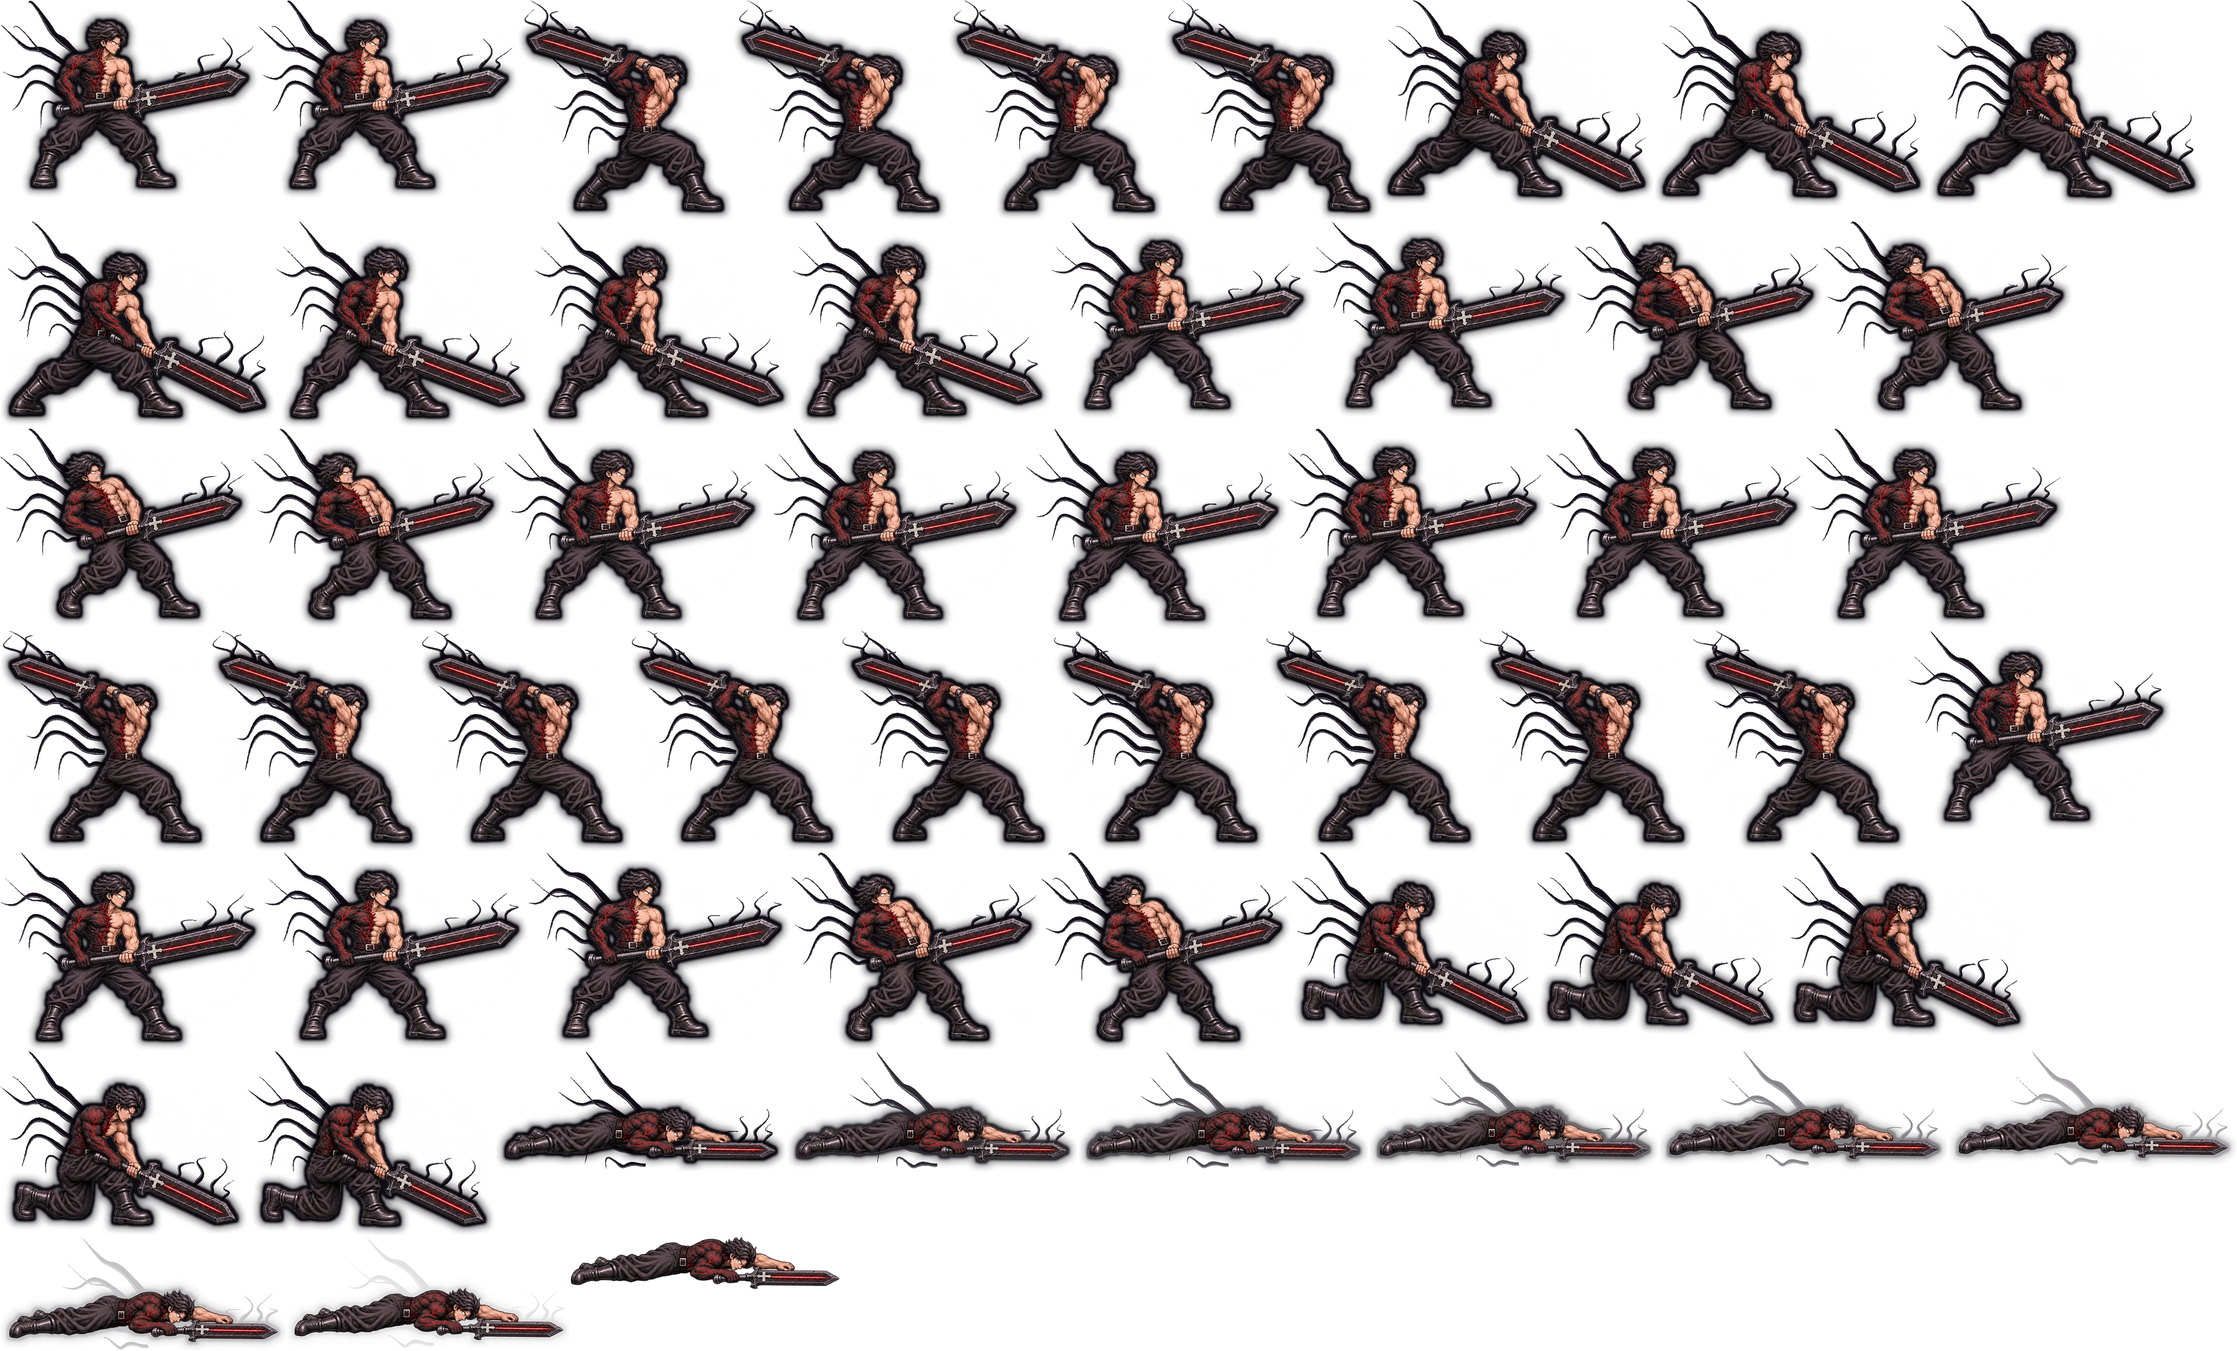
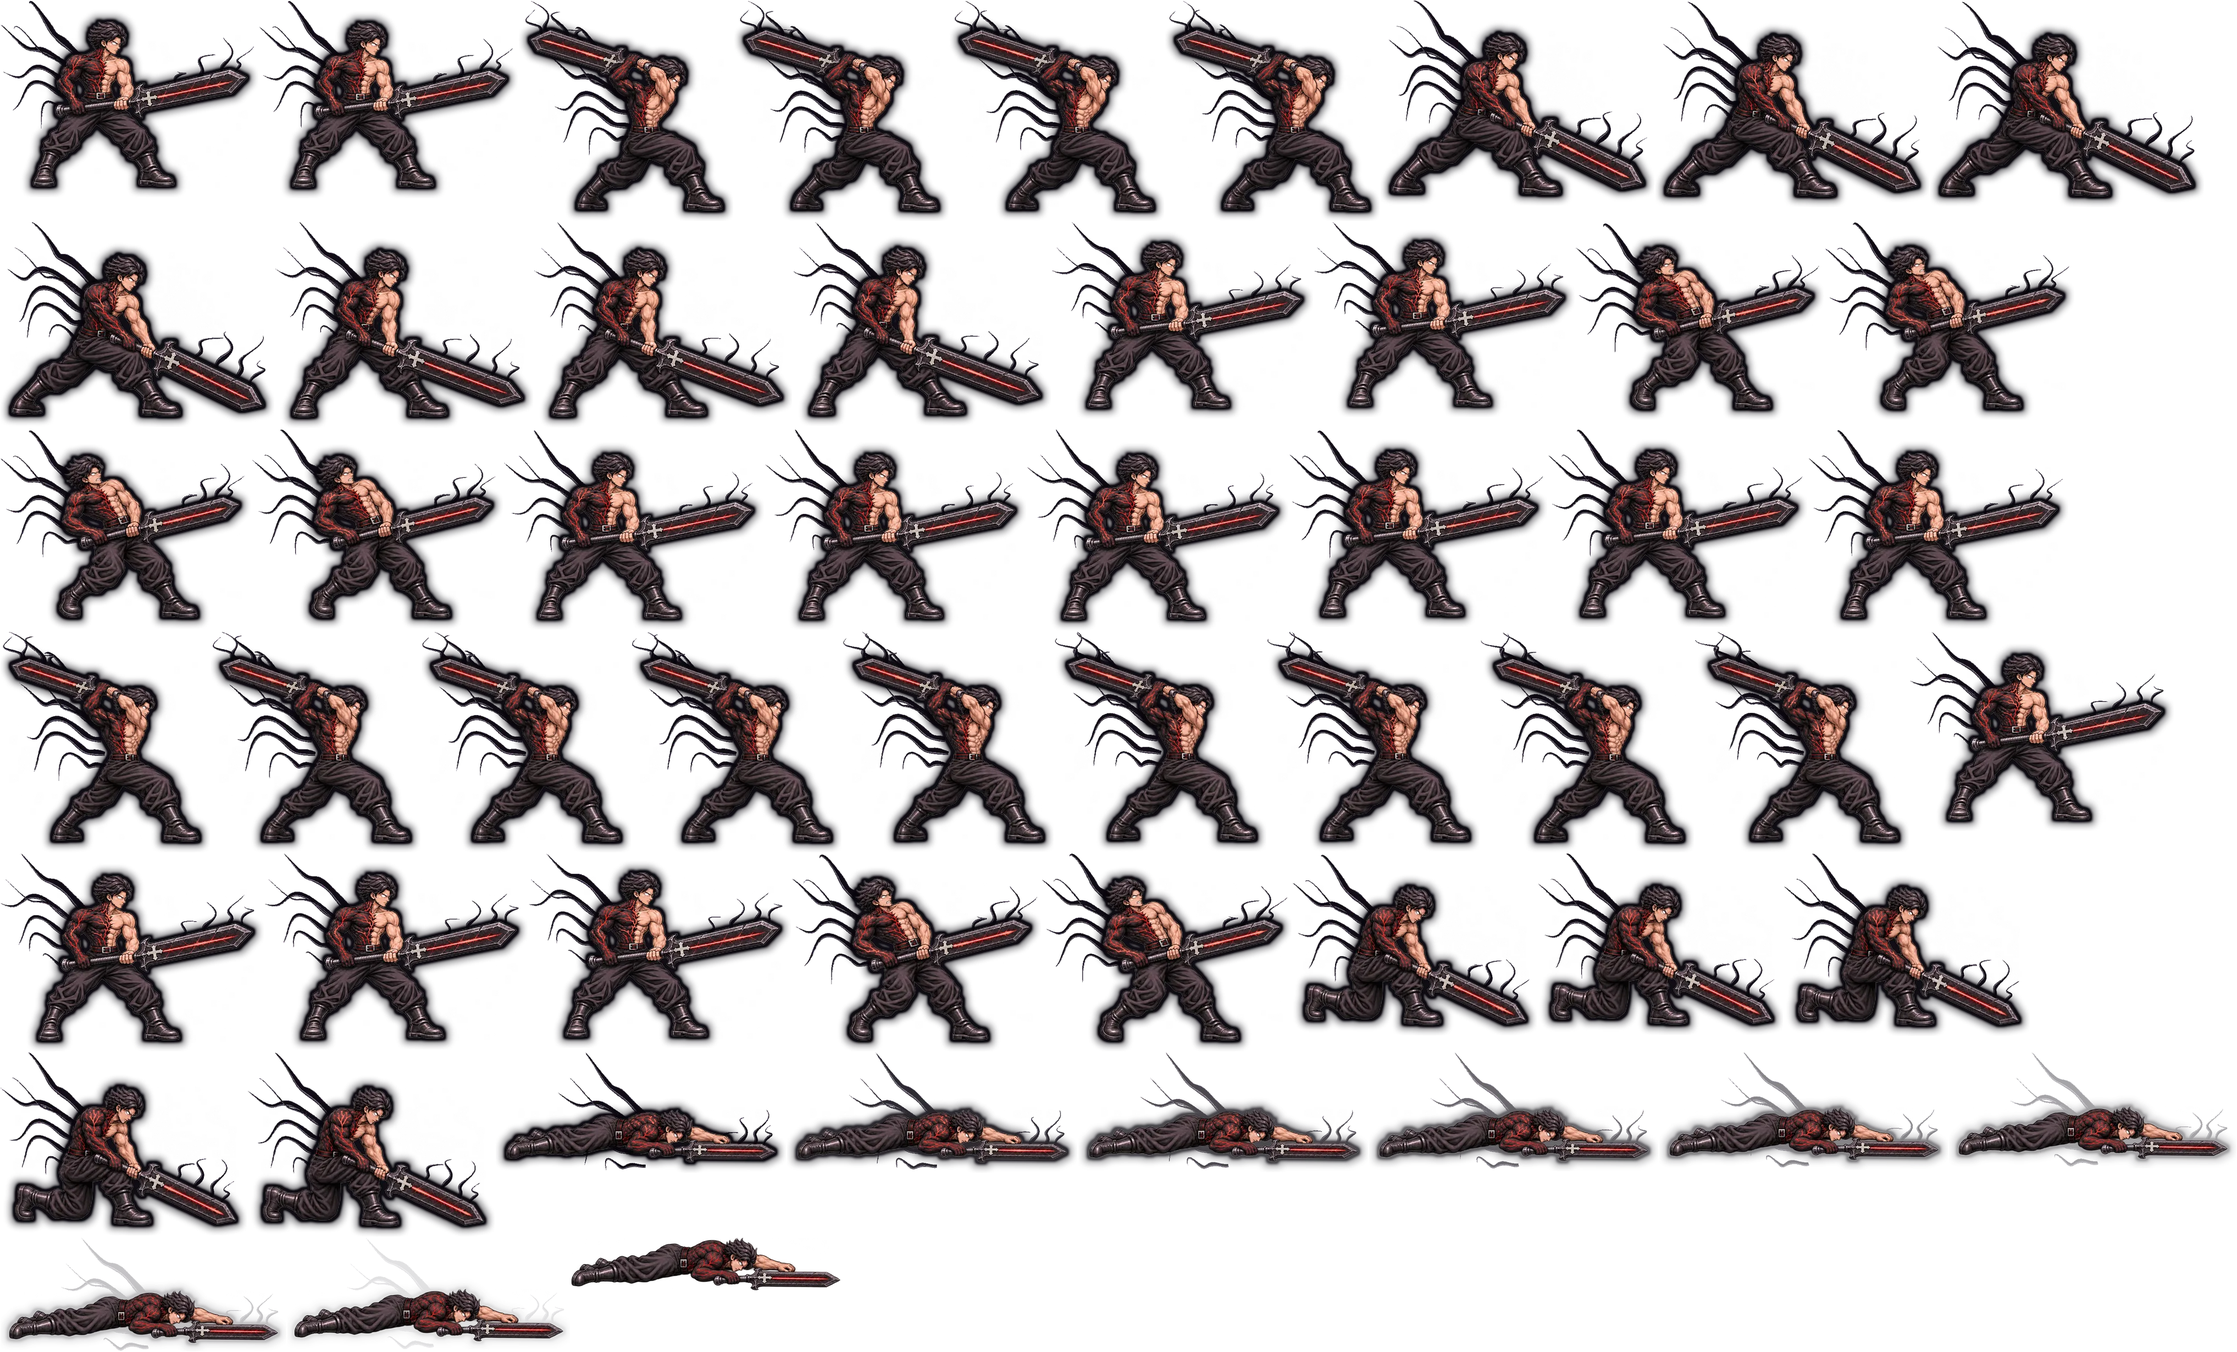
0.262.0: the Demon Knight at his full size, whole in his box, and still
His model is fitted by his body, not by the great sword held out to the
side (a manifest's fitWidth), so he stands as tall as any Riftwalker and
9% more in battle. The Store's and the Collection's look boxes stand the
whole resting figure in their middle (HeroModel contain). His packer
scales each frame whole before cutting it, which ends a one-pixel jitter
while he stands; both sets repacked with the new red energy. No rules
change (decision 772).

diff --git a/apps/web/src/art/HeroModel.tsx b/apps/web/src/art/HeroModel.tsx
@@ -34,6 +34,9 @@ export function HeroModel(props: {
   className?: string;
   /** how much of the box's height the body fills, feet on its bottom edge */
   fill?: number;
+  /** the whole resting figure, weapon and all, stays inside the box and stands in its middle (the Store's and the Collection's boxes);
+   * without it the feet stand in the middle and a wide pose may reach past the sides (DECISIONS #772) */
+  contain?: boolean;
   /** the still picture */
   children: ReactNode;
 }) {
@@ -50,6 +53,7 @@ export function HeroModel(props: {
   );
   const rigId = heroRigFor(props.hero, props.skin);
   const fill = props.fill ?? 0.94;
+  const contain = props.contain === true;
   // (DECISIONS #755) a model is only loaded while it is on screen or near it, and let go when it scrolls well away
   const [near, setNear] = useState(() => typeof IntersectionObserver !== 'function');
   // (no pose-sheet slot free: the picture, until one is; `slot` counts the times one was freed, to try again)
@@ -110,7 +114,16 @@ export function HeroModel(props: {
     const place = (): void => {
       if (!sprite) return;
       const dpr = Math.min(2, window.devicePixelRatio || 1);
-      const height = Math.max(8, size.h * fill);
+      let height = Math.max(8, size.h * fill);
+      let shift = 0;
+      if (contain && sprite.restSpan && size.w > 0) {
+        let span = sprite.restSpan(height);
+        if (span.left + span.right > size.w) {
+          height = Math.max(8, (height * size.w) / (span.left + span.right));
+          span = sprite.restSpan(height);
+        }
+        shift = (span.left - span.right) / 2;
+      }
       const changed = sprite.resize(height, dpr);
       const c = sprite.canvas;
       const w = c.width * sprite.stageScale;
@@ -118,7 +131,7 @@ export function HeroModel(props: {
       const a = sprite.anchor;
       c.style.width = `${w}px`;
       c.style.height = `${h}px`;
-      c.style.left = `${size.w / 2 - a.x * w}px`;
+      c.style.left = `${size.w / 2 - a.x * w + shift}px`;
       c.style.top = `${size.h - a.y * h}px`;
       if (changed) sprite.render();
     };
@@ -223,7 +236,7 @@ export function HeroModel(props: {
       stop();
       release();
     };
-  }, [rigId, fill, near, slot]);
+  }, [rigId, fill, contain, near, slot]);
 
   return (
     <span

diff --git a/apps/web/src/fight/heroSheet.test.ts b/apps/web/src/fight/heroSheet.test.ts
@@ -33,3 +33,39 @@ describe('a Riftwalker’s strike leaves out its slow wind-up (DECISIONS #770)',
     }
   });
 });
+
+describe('a look whose resting pose holds a weapon far out is fitted by its body (DECISIONS #772)', () => {
+  const sets = ['heroes-sheets', 'heroes-sheets-lite'];
+  const load = (set: string) =>
+    JSON.parse(
+      readFileSync(
+        join(__dirname, '../../public/art', set, 'skins/knight-demon-knight/sprites.json'),
+        'utf8',
+      ),
+    ) as {
+      displayScale: number;
+      fitWidth?: number;
+      clips: Record<string, { frames: number[][] }>;
+    };
+  it('the Demon Knight\u2019s body fills the same share of the height as any Riftwalker\u2019s, in both sets', () => {
+    for (const set of sets) {
+      const man = load(set);
+      const rest = man.clips['idle']!.frames[0]!;
+      expect(man.fitWidth, set).toBeGreaterThan(0);
+      // (narrower than the whole picture, sword and all)
+      expect(man.fitWidth!, set).toBeLessThan(rest[3]!);
+      // (the fit: the body 0.78 of the height unless its width, at most 0.85 of the height, asks for more room)
+      const bodyH = rest[4]! / man.displayScale;
+      const bodyW = man.fitWidth! / man.displayScale;
+      expect(bodyW / 0.85, set).toBeLessThanOrEqual(bodyH / 0.78);
+    }
+  });
+  it('his feet stand on the same line in every resting frame (the frames are cut from one scaled canvas)', () => {
+    for (const set of sets) {
+      const man = load(set);
+      // (the bottom edge of every idle frame, measured from the feet: the boots never rise or sink)
+      const bottoms = new Set(man.clips['idle']!.frames.map((f) => f[6]! + f[4]!));
+      expect([...bottoms], set).toHaveLength(1);
+    }
+  });
+});

diff --git a/apps/web/src/fight/heroSheet.ts b/apps/web/src/fight/heroSheet.ts
@@ -31,6 +31,9 @@ interface SheetClip {
 interface Manifest {
   name: string;
   displayScale?: number;
+  /** the standing body's own width, in sheet px, when the resting pose holds something far out to the side (the Demon Knight's great
+   * sword): the figure is fitted and spaced by this, not by the whole picture, or the weapon made the body small (DECISIONS #772) */
+  fitWidth?: number;
   pages: string[];
   /** the first this many pages hold every idle frame (pack_for_game --idle-first); without it every page is needed at once */
   idlePages?: number;
@@ -240,7 +243,7 @@ export class SheetHeroSprite {
     const rest = a.man.clips['idle']!.frames[0]!;
     const scale = a.man.displayScale ?? 1;
     this.bodyH = rest[4] / scale;
-    this.bodyW = rest[3] / scale;
+    this.bodyW = (a.man.fitWidth ?? rest[3]) / scale;
     this.texture = Texture.from(this.canvas);
     this.texture.dynamic = true;
   }
@@ -296,6 +299,16 @@ export class SheetHeroSprite {
 
   widthFor(height: number): number {
     return (height * this.bodyW) / this.fitH;
+  }
+
+  /** How far the resting pose reaches to the left and the right of the feet, in the same units as `height`, weapon and all: for a box
+   * that must hold the whole figure (the Store's and the Collection's). */
+  restSpan(height: number): { left: number; right: number } {
+    const b = this.boxes.get('idle')!;
+    const u = height / (this.fitH * (this.a.man.displayScale ?? 1));
+    const left = -b.x0 * u;
+    const right = (b.x0 + b.w) * u;
+    return this.facing === 'right' ? { left, right } : { left: right, right: left };
   }
 
   resize(height: number, pixelScale: number): boolean {

diff --git a/apps/web/src/fight/FightView.tsx b/apps/web/src/fight/FightView.tsx
@@ -315,13 +315,12 @@ function specsFrom(
       // redraw when it arrives: FIGURE_READY_EVENT)
       const form = hero ? u.def : figureId(u.def, u.maxHp);
       const waiting = !hero && needsFigure(form);
+      const skin = hero && side === me ? skinOf?.(u.def) : undefined;
       const raw = figures.get(u.id, waiting ? `${form}~waiting` : form, () =>
-        hero
-          ? heroFigure(u.def, side === me ? skinOf?.(u.def) : undefined)
-          : unitFigure(u.def, u.maxHp),
+        hero ? heroFigure(u.def, skin) : unitFigure(u.def, u.maxHp),
       );
       const canvas = flip && u.kind !== 'enemy' ? mirror(raw) : raw;
-      const k = figureScale(mode, hero);
+      const k = figureScale(mode, hero) * (skin === DEMON_KNIGHT_SKIN ? 1.09 : 1);
       const height =
         fitHeight(
           canvas,
@@ -337,6 +336,7 @@ function specsFrom(
         u,
         boss: !hero && isWardenFigure(u.def),
         hero,
+        skin,
         form,
         canvas,
         height,
@@ -428,7 +428,7 @@ function specsFrom(
         s.sides[me].units.filter((u) => u.kind === 'ally').length,
       );
     for (const e of sized) {
-      const skin = e.hero && side === me ? skinOf?.(e.u.def) : undefined;
+      const { skin } = e;
       const rigId = e.hero ? heroRigFor(e.u.def, skin) : undefined;
       const attack = attackFor(e.u.def, e.hero);
       const demonKnight = skin === DEMON_KNIGHT_SKIN;

diff --git a/apps/web/src/app/patchNotes.ts b/apps/web/src/app/patchNotes.ts
@@ -46,6 +46,20 @@ export const KIND_LABEL: Record<NoteKind, string> = {
 
 export const PATCH_NOTES: PatchNote[] = [
   {
+    version: "0.262.0",
+    date: "2026-11-12",
+    title: "Demon Knight",
+    summary: "The Demon Knight stands at his full size, sits properly in his box, holds still, and his red energy comes to life.",
+    notes: [
+      {
+        kind: "changed",
+        title: "Demon Knight",
+        hero: "knight",
+        text: "The Demon Knight was drawn about a fifth too small, because the great sword he holds out to the side was counted as part of his body. He now stands as tall as any Riftwalker and a little more. In the Store and the Collection he stands whole in the middle of his box. He no longer jitters while he stands. Red energy pulses through his veins and travels from the hilt to the tip of his greatsword."
+      }
+    ]
+  },
+  {
     version: "0.261.0",
     date: "2026-11-12",
     title: "Quicker blows, a new look",

diff --git a/apps/web/src/fight/heroSprite.ts b/apps/web/src/fight/heroSprite.ts
@@ -162,6 +162,8 @@ export interface HeroSprite {
   readonly anchor: { x: number; y: number };
   readonly stageScale: number;
   widthFor(height: number): number;
+  /** how far the resting pose reaches each side of the feet at this height, when the model knows (a pose-sheet model) */
+  restSpan?(height: number): { left: number; right: number };
   resize(height: number, pixelScale: number): boolean;
   readonly remaining: number;
   /** `variant`: the weapon a card swings ("shotgun"), for a model with a clip of its own for it (a video model, DECISIONS #715) */

diff --git a/apps/web/src/app/ShopParts.tsx b/apps/web/src/app/ShopParts.tsx
@@ -196,7 +196,7 @@ export function LookTile(props: {
     <>
       {/* (no picture yet, or one that will not load: nothing, never a browser's broken-image mark) */}
       {props.hero ? (
-        <HeroModel hero={props.hero} skin={props.skin} className="look__model">
+        <HeroModel hero={props.hero} skin={props.skin} className="look__model" contain>
           <LookPicture src={props.src} />
         </HeroModel>
       ) : (

diff --git a/docs/DECISIONS.md b/docs/DECISIONS.md
@@ -2284,3 +2284,13 @@ Robert, after #753 (decks now live long enough for an update to break one): "we 
 - **Checked:** both model sets have every clip the board plays (idle, slash, hit, aura, death) with the same frame counts, speeds and marked moments as the Knight's own, every frame on a page that exists, and the idle on its first pages; the frames were looked at; all tests, the typecheck, lint and the build pass with the art committed.
 - **Found, not changed:** in a fight the Demon Knight stands about a fifth shorter than the Knight's own look. A Riftwalker's model is fitted to a box at most 0.85 as wide as it is tall, and his resting pose holds the great sword out to the side (600 px wide by 453 tall, against 361 by 401), so the width decides: his body fills about 64% of the height where the Knight's fills 78%. Giving him the Knight's height needs a wider box for a Riftwalker, which the board's spacing has not been checked for.
 - **For Robert to judge:** golden rule 6 (original IP only). A dark-haired swordsman with a slab of a great sword reads close to a well-known manga look; nothing names or copies one, but it is his call.
+
+## 772 - The Demon Knight at his full size, whole in his box, and still (2026-11-12)
+
+- **Question:** Robert, with an updated Demon Knight ready (red energy in his veins and along the sword, and 9% larger in battle, made in another session): "can you make sure he looks bigger and fits the areas better like the skin box and everything, then ship it"; "also i can see a slight jittering for the demon knight in the game on the homescreen".
+- **Why he was small (#771):** a Riftwalker's model is fitted by its resting picture, at most 0.85 as wide as it is tall, and his resting pose holds the great sword out to the side, so the sword's width decided his size: his body filled about 64% of the height, the Knight's 78%.
+- **Decision:**
+  - **Fitted by the body:** a model's manifest may give `fitWidth`, the standing body's own width; the fit and the spacing use it in place of the whole picture's width (apps/web/src/fight/heroSheet.ts). The Demon Knight's two manifests give it (340, and 255 in the lighter set), so his body fills 78% like every Riftwalker's. With the 9% the other session gave him in battle he stands a little taller than the Knight: about a third larger than he was in 0.261.0.
+  - **Whole in his box:** `HeroModel` takes `contain`: the whole resting figure, weapon and all, stands in the middle of the box and is made smaller only if it is wider than the box (`restSpan`). The Store's and the Collection's look boxes use it. Elsewhere the feet still stand in the middle, as the home screen's dais needs.
+  - **The jitter:** the packer cut each resting frame to its own outline and then scaled the piece, so as the red energy moved the outline the body landed on a different part of a pixel each frame (measured: the boots' edge moved by a pixel between frames, in both sets). It now scales every frame whole from the same canvas and cuts afterwards (measured: no movement). Both sets were repacked (assets-src/heroes-pose-sheets/knight-demon-knight/pack_demon_knight.py, which also writes `fitWidth`).
+- **Not seen on screen:** the test browser would not start in this session, so the size, the box and the jitter were checked by measurement and tests only. In a narrow box (a phone's Store) the whole figure with its sword is wider than the box and is made smaller to fit.

diff --git a/CLAUDE.md b/CLAUDE.md
@@ -1,3 +1,7 @@
+# Release approved 0.262.0 / rules 110 (2026-11-12; decision 772)
+
+Robert explicitly approves shipping ("i have an updated demon knight to deploy. can you make sure he looks bigger and fits the areas better like the skin box and everything, then ship it"). Website/server and matching Windows updater. Future changes need fresh release approval. The Demon Knight at his full size: a model's manifest may give `fitWidth` (the standing body's width) so a weapon held out to the side does not shrink the body; `HeroModel` `contain` stands the whole resting figure in the middle of the Store's and the Collection's boxes (`restSpan`); his packer scales each frame whole before cutting it, which ended a one-pixel jitter while he stands; red energy in his veins and along the sword, and 9% larger in battle (`DEMON_KNIGHT_SKIN` in FightView). Not seen on screen in the session that shipped it. No rules change.
+
 # Release approved 0.261.0 / rules 110 (2026-11-12; decisions 770-771)
 
 Robert explicitly approves releasing everything pending ("check the demon knight skin and make sure its all good then reoll everything we have"). Website/server and matching Windows updater. Future changes need fresh release approval. A Riftwalker's strike leaves out its slow wind-up (`STRIKE_LEAD` 0.1 s before the first marked moment, `strikeStart` in apps/web/src/fight/heroSheet.ts; creatures, spell casts and the video models keep theirs). The Demon Knight, the first look with an animated model (`ANIMATED_SKINS` in apps/web/src/art/heroRigs.ts replaces `SKINS_SHOWN`: a look shows only with a model; never empty `SKINS`). Known: he stands about a fifth shorter than the Knight in a fight (his wide resting pose meets the 0.85 width limit of a Riftwalker's box). No rules change.

diff --git a/CHANGELOG.md b/CHANGELOG.md
@@ -1,3 +1,9 @@
+## 0.262.0 - 2026-11-12
+
+- The Demon Knight stands at his full size: he was drawn about a fifth too small, because the great sword held out to his side was counted as part of his body. He is now fitted by his body, and stands a little taller than the other Riftwalkers. Red energy runs through his veins and along his greatsword.
+- In the Store and the Collection a look stands whole in the middle of its box, weapon and all.
+- Fixed: the Demon Knight jittered slightly while standing (on the home screen and everywhere else).
+
 ## 0.261.0 - 2026-11-12
 
 - New look for the Knight: the Demon Knight, the first look with its own animated model. Get it and wear it from the Store or the Collection (Looks). The older still-picture looks stay put away until they are animated too; what you own of them is kept.
